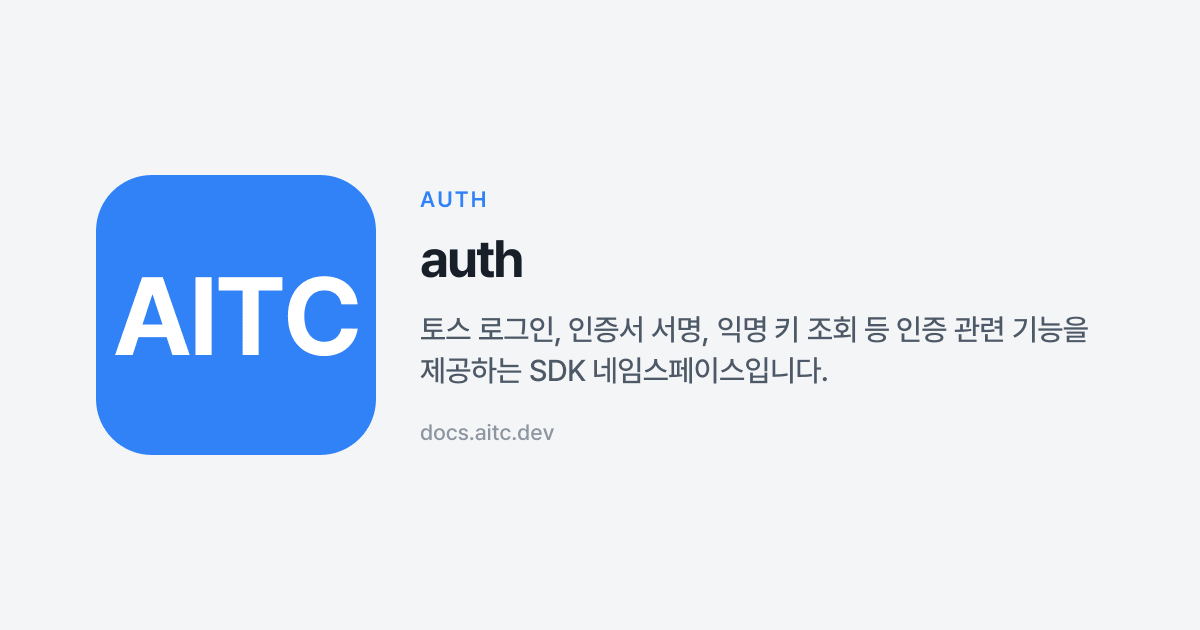
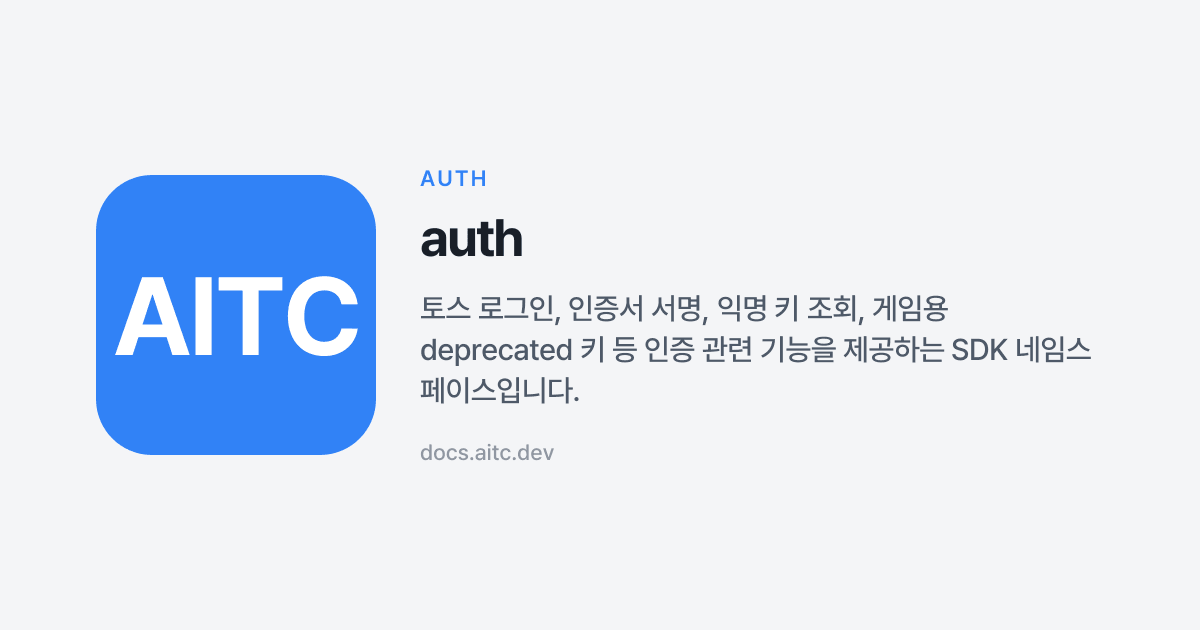
docs(api): align namespaces with sdk-example — move getUserKeyForGame game→auth, add iap/checkoutPayment (#49)
Two fixes against sdk-example main as the authoritative URL contract:

## getUserKeyForGame: game/ → auth/

sdk-example renders `getUserKeyForGame` on AuthPage (it's the deprecated
predecessor of `getAnonymousKey`), not on GamePage. The docs page was
already labelled 'sdk-example의 Auth 페이지에서' and used TryItLink
group='auth', but lived under docs/api/game/. Move it to docs/api/auth/
to match the URL contract (ko + en).

- `git mv` ko + en mdx from api/game/ to api/auth/
- Update frontmatter og path: api-game-getUserKeyForGame → api-auth-…
- Rewrite Related APIs (was game siblings, now auth siblings)
- Sidebar: append to auth, remove from game
- sdk-coverage GROUP_MAP: getUserKeyForGame → 'auth'
- auth/index.mdx + en: add row to methods table, mention deprecated
  game-session key in description
- game/index.mdx + en: drop from methods + Deprecated migration table;
  link cross-namespace to /api/auth/getUserKeyForGame instead; expanded
  intro to point readers to auth for the anonymous key
- getGameCenterGameProfile (ko + en): Related APIs link updated from
  ./getUserKeyForGame to absolute /api/auth/getUserKeyForGame
- og: stale api-game-getUserKeyForGame.png removed, api-auth-… regenerated

## checkoutPayment: new docs/api/iap/checkoutPayment

sdk-example renders `checkoutPayment` on IAPPage (despite being a flat
top-level export, not an `IAP.*` namespace method). It's the TossPay
general-purpose entry — non-SKU, mints a payToken server-side and
[…]

Changed region(s): [[0.3392, 0.3317, 0.925, 0.754], [0.3392, 0.2714, 0.4008, 0.3317]]

diff --git a/scripts/sdk-coverage.ts b/scripts/sdk-coverage.ts
@@ -123,26 +123,30 @@ const GROUP_MAP: Record<string, string> = {
   getPermission: 'permissions',
   requestPermission: 'permissions',
   openPermissionDialog: 'permissions',
-  // auth
+  // auth — `getUserKeyForGame` is rendered on sdk-example's AuthPage
+  // (it's the deprecated predecessor of `getAnonymousKey`).
   appLogin: 'auth',
   getIsTossLoginIntegratedService: 'auth',
   appsInTossSignTossCert: 'auth',
   getAnonymousKey: 'auth',
+  getUserKeyForGame: 'auth',
   // payment
-  checkoutPayment: 'payment',
   requestTossPayPaysBilling: 'payment',
-  // iap
+  // iap — `checkoutPayment` is rendered on sdk-example's IAPPage even
+  // though the SDK re-exports it flat at the top level.
   IAP: 'iap',
+  checkoutPayment: 'iap',
   // ads
   GoogleAdMob: 'ads',
   TossAds: 'ads',
   loadFullScreenAd: 'ads',
   showFullScreenAd: 'ads',
-  // game — `contactsViral` lives on sdk-example's GamePage so it docs here too.
+  // game — `contactsViral` lives on sdk-example's GamePage (via a
+  // custom ContactsViralCard component, not a stock ApiCard) so it
+  // docs here too.
   getGameCenterGameProfile: 'game',
   openGameCenterLeaderboard: 'game',
   submitGameCenterLeaderBoardScore: 'game',
-  getUserKeyForGame: 'game',
   grantPromotionReward: 'game',
   grantPromotionRewardForGame: 'game',
   contactsViral: 'game',

diff --git a/sidebars.ts b/sidebars.ts
@@ -62,6 +62,7 @@ const sidebars: SidebarsConfig = {
             'api/auth/appsInTossSignTossCert',
             'api/auth/getAnonymousKey',
             'api/auth/getIsTossLoginIntegratedService',
+            'api/auth/getUserKeyForGame',
           ],
         },
         {
@@ -141,7 +142,6 @@ const sidebars: SidebarsConfig = {
             'api/game/game-overview',
             'api/game/contactsViral',
             'api/game/getGameCenterGameProfile',
-            'api/game/getUserKeyForGame',
             'api/game/grantPromotionReward',
             'api/game/grantPromotionRewardForGame',
             'api/game/openGameCenterLeaderboard',
@@ -164,6 +164,7 @@ const sidebars: SidebarsConfig = {
           collapsed: false,
           items: [
             'api/iap/iap-overview',
+            'api/iap/checkoutPayment',
             'api/iap/completeProductGrant',
             'api/iap/createOneTimePurchaseOrder',
             'api/iap/createSubscriptionPurchaseOrder',
